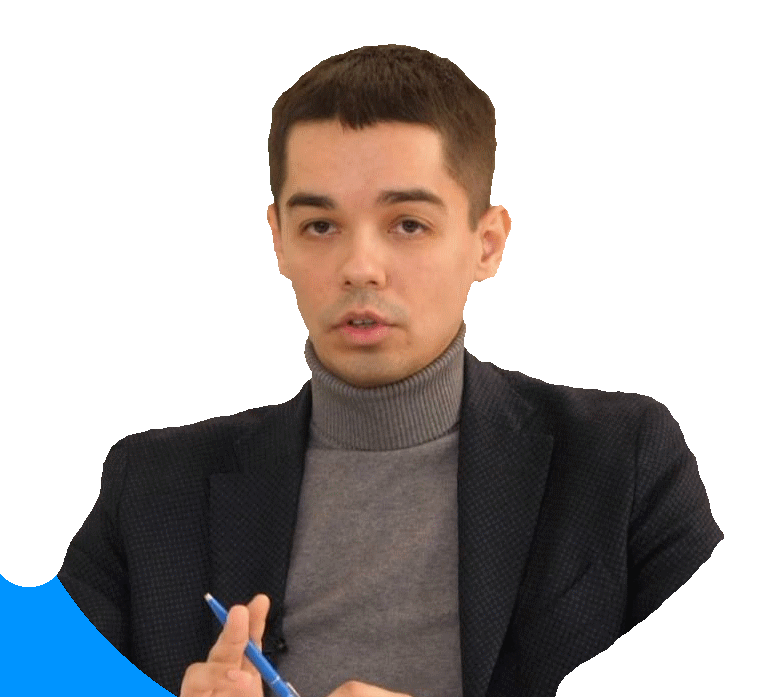
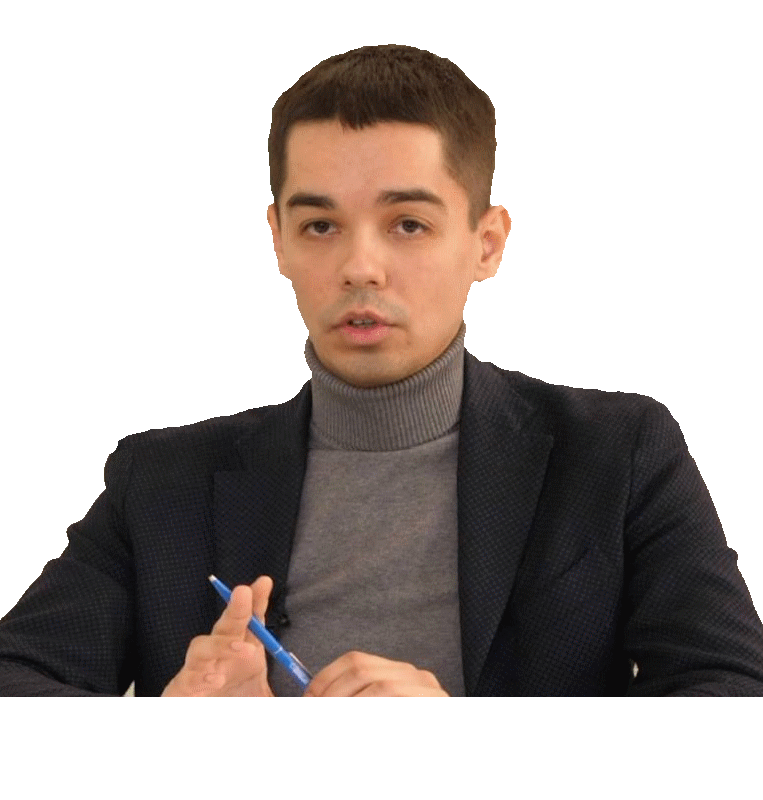
fixed photos, bio block

diff --git a/index.html b/index.html
@@ -622,76 +622,76 @@
         <div class="container">
             <h1 class="container__title" id="team">Наша команда</h1>
             <div class="team">
-                <div class="person-2 shadow element-animation">
-                    <img class="person-2__avatar" src="img/avatar1_ver2.png">
-                    <div class="person-2__info">
-                        <span class="person-2__name">Сахатский А.С.</span>
-                        <span class="person-2__bio">Управленческий стаж: 8 лет
+                <div class="person shadow element-animation">
+                    <img class="person__avatar" src="img/avatar1_ver2.png">
+                    <div class="person__info">
+                        <span class="person__name">Сахатский А.С.</span>
+                        <span class="person__bio">Управленческий стаж: 8 лет
                             (специализация: «финансы и кредит» в «СПбГЭУ»)</span>
-                        <span class="person-2__profession">Руководитель лаборатории</span>
+                        <span class="person__profession">Руководитель лаборатории</span>
                     </div>
                 </div>
-                <div class="person-2 shadow element-animation">
-                    <img class="person-2__avatar" src="img/avatar2_ver2.png">
-                    <div class="person-2__info">
-                        <span class="person-2__name">Карпенко Л.З.</span>
-                        <span class="person-2__bio">Кандидат медицинских
+                <div class="person shadow element-animation">
+                    <img class="person__avatar" src="img/avatar2_ver2.png">
+                    <div class="person__info">
+                        <span class="person__name">Карпенко Л.З.</span>
+                        <span class="person__bio">Кандидат медицинских
                             наук.</br>
                             Преподавательский стаж
                             более 20 лет
                         </span>
-                        <span class="person-2__profession">
+                        <span class="person__profession">
                             Научный руководитель
                         </span>
                     </div>
                 </div>
-                <div class="person-2 shadow element-animation">
-                    <img class="person-2__avatar" src="img/avatar3_ver2.png">
-                    <div class="person-2__info">
-                        <span class="person-2__name">Абрамов Р.А.</span>
-                        <span class="person-2__bio">2,5 года опыта в проектировании и производстве изделий.
+                <div class="person shadow element-animation">
+                    <img class="person__avatar" src="img/avatar3_ver2.png">
+                    <div class="person__info">
+                        <span class="person__name">Абрамов Р.А.</span>
+                        <span class="person__bio">2,5 года опыта в проектировании и производстве изделий.
                             Участие в составе группы Российских специалистов в проведении опытно-экспериментальных работ
                             на
                             территории Ирана/Казахстана. 2021-2022 г.</span>
-                        <span class="person-2__profession">Инженер разработчик протезов</span>
+                        <span class="person__profession">Инженер разработчик протезов</span>
                     </div>
                 </div>
 
-                <div class="person-2 shadow element-animation">
-                    <img class="person-2__avatar" src="img/avatar4_ver2.png">
-                    <div class="person-2__info">
-                        <span class="person-2__name">Борисов Б.А.</span>
-                        <span class="person-2__bio">2,5 года опыта в сборке протезов,
+                <div class="person shadow element-animation">
+                    <img class="person__avatar" src="img/avatar4_ver2.png">
+                    <div class="person__info">
+                        <span class="person__name">Борисов Б.А.</span>
+                        <span class="person__bio">2,5 года опыта в сборке протезов,
                             специалист в области полимеров
                         </span>
-                        <span class="person-2__profession">Конструктор лаборатории</span>
+                        <span class="person__profession">Конструктор лаборатории</span>
                     </div>
                 </div>
 
-                <div class="person-2 shadow element-animation">
-                    <img class="person-2__avatar" src="img/avatar6_ver2.png">
-                    <div class="person-2__info">
-                        <span class="person-2__name">Иванов И.</span>
-                        <span class="person-2__bio">Опыт в сфере дизайна 15 лет (добавить еще информации)</span>
-                        <span class="person-2__profession">Дизайнер протезов</span>
+                <div class="person shadow element-animation">
+                    <img class="person__avatar" src="img/avatar6_ver2.png">
+                    <div class="person__info">
+                        <span class="person__name">Иванов И.</span>
+                        <span class="person__bio">Опыт в сфере дизайна 15 лет (добавить еще информации)</span>
+                        <span class="person__profession">Дизайнер протезов</span>
                     </div>
                 </div>
-                <div class="person-2 shadow element-animation">
-                    <img class="person-2__avatar" src="img/avatar7_ver2.png">
-                    <div class="person-2__info">
-                        <span class="person-2__name">Бобков К.А.</span>
-                        <span class="person-2__bio">Опыт в сфере разработки программных интерфейсов 4 года</span>
-                        <span class="person-2__profession">Программист</span>
+                <div class="person shadow element-animation">
+                    <img class="person__avatar" src="img/avatar7_ver2.png">
+                    <div class="person__info">
+                        <span class="person__name">Бобков К.А.</span>
+                        <span class="person__bio">Опыт в сфере разработки программных интерфейсов 4 года</span>
+                        <span class="person__profession">Программист</span>
                     </div>
                 </div>
 
-                <div class="person-2 shadow element-animation">
-                    <img class="person-2__avatar" src="img/avatar5_ver2.png">
-                    <div class="person-2__info">
-                        <span class="person-2__name">Вертер</span>
-                        <span class="person-2__bio">Выполняет функцию испытания протезов
+                <div class="person shadow element-animation">
+                    <img class="person__avatar" src="img/avatar5_ver2.png">
+                    <div class="person__info">
+                        <span class="person__name">Вертер</span>
+                        <span class="person__bio">Выполняет функцию испытания протезов
                         </span>
-                        <span class="person-2__profession">Робот-реабилитолог</span>
+                        <span class="person__profession">Робот-реабилитолог</span>
                     </div>
                 </div>
             </div>

diff --git a/css/team.css b/css/team.css
@@ -7,44 +7,8 @@
 }
 
 .person {
-    width: 300px;
-    min-height: 600px;
-    border-radius: 20px;
-    padding: 30px;
-    background-color: var(--card-bg-color);
-    display: flex;
-    flex-direction: column;
-    align-items: center;
-    justify-content: center;
-}
-
-.person__avatar {
-    width: 100%;
-    height: auto;
-    margin-bottom: 20px;
-}
-
-.person__name {
-    margin-bottom: 20px;
-    text-align: center;
-    font-size: 24px;
-    line-height: 32px;
-}
-
-.person__bio {
-    margin-bottom: 20px;
-    text-align: center;
-    font-size: 12px;
-    line-height: 20px;
-}
-
-.person__profession {
-    text-align: center;
-}
-
-.person-2 {
     width: 550px;
-    min-height: 300px;
+    min-height: 293px;
     border-radius: 20px;
     padding: 30px;
     padding-left: 20%;    
@@ -56,17 +20,17 @@
     overflow: hidden;
 }
 
-.person-2__avatar {
+.person__avatar {
     width: 60%;
     height: auto;
     object-fit: cover;
     align-self: baseline;
     position: absolute;
-    bottom: -30%;
+    bottom: -20%;
     left: -7%;
 }
 
-.person-2__info {
+.person__info {
     display: flex;
     flex-direction: column;
     align-items: flex-start;
@@ -74,7 +38,7 @@
     flex-wrap: nowrap;
 }
 
-.person-2__name {
+.person__name {
     margin-bottom: 20px;
     text-align: right;
     font-size: 36px;
@@ -82,7 +46,7 @@
     width: 100%;
 }
 
-.person-2__bio {
+.person__bio {
     margin-bottom: 20px;
     font-size: 12px;
     line-height: 20px;
@@ -90,7 +54,7 @@
     width: 100%;
 }
 
-.person-2__profession {
+.person__profession {
     text-align: right;
     width: 100%;
 }

diff --git a/css/replacement-parts.css b/css/replacement-parts.css
@@ -11,10 +11,13 @@
     align-items: center;
     justify-content: center;
     height: 500px;
+    max-width: 1200px;
+    margin: 0 auto;
     background-image: url(../img/replacement_parts_main.png);
     background-repeat: no-repeat;
     background-position: center;
     background-size: 60%;
+    transform: rotate(-30deg)
 }
 
 .envelope .askolenada {
@@ -60,13 +63,13 @@
 @keyframes animate {
     0% {
         opacity: 0;
-        transform: translateY(100%) scale(0.5);
+        transform: translateY(-100%) scale(0.5);
     }
 
     5%,
     20% {
         opacity: 0.4;
-        transform: translateY(100%) scale(0.7);
+        transform: translateY(-100%) scale(0.7);
     }
 
     25%,
@@ -79,13 +82,13 @@
     45%,
     60% {
         opacity: 0.4;
-        transform: translateY(-100%) scale(0.7);
+        transform: translateY(100%) scale(0.7);
     }
 
     65%,
     100% {
         opacity: 0;
-        transform: translateY(-100%) scale(0.5);
+        transform: translateY(100%) scale(0.5);
     }
 }
 

diff --git a/css/designs.css b/css/designs.css
@@ -31,21 +31,21 @@
     margin: 0;
     padding: 0;
     box-sizing: border-box;
-    scrollbar-color: transparent transparent;
+    scrollbar-color: transparent;
     scrollbar-width: none; 
     -ms-overflow-style: none;
   }
 
-  .design__container::-webkit-scrollbar {
-    width: 0;
+  .designs__container::-webkit-scrollbar {
     display: none;
+    width: 0;
   }
   
-  .design__container ::-webkit-scrollbar-track {
+  .designs__container::-webkit-scrollbar-track {
     background: transparent;
   }
   
-  .design__container ::-webkit-scrollbar-thumb {
+  .designs__container::-webkit-scrollbar-thumb {
     background: transparent;
     border: none;
   }

diff --git a/css/problems.css b/css/problems.css
@@ -30,15 +30,14 @@
   }
 
   .problem__container::-webkit-scrollbar {
-    width: 0;
     display: none;
   }
   
-  .problem__container ::-webkit-scrollbar-track {
+  .problem__container::-webkit-scrollbar-track {
     background: transparent;
   }
   
-  .problem__container ::-webkit-scrollbar-thumb {
+  .problem__container::-webkit-scrollbar-thumb {
     background: transparent;
     border: none;
   }
